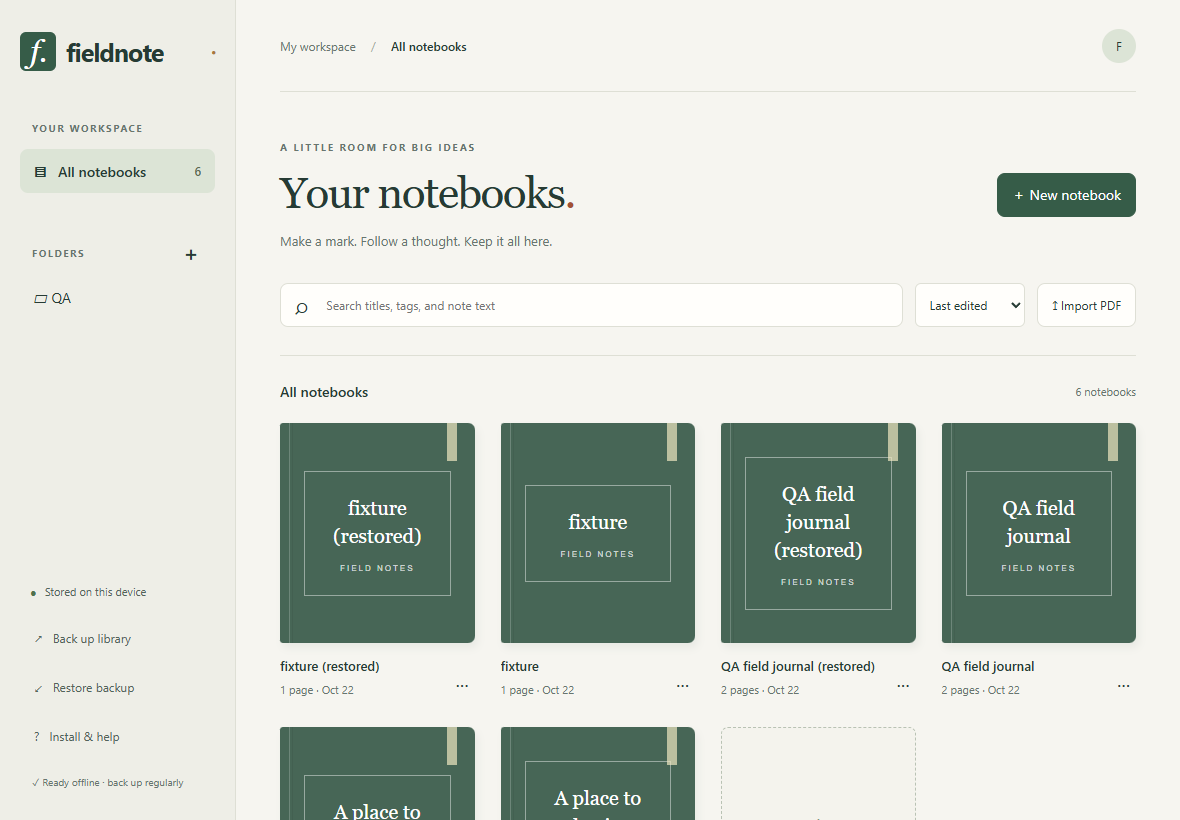
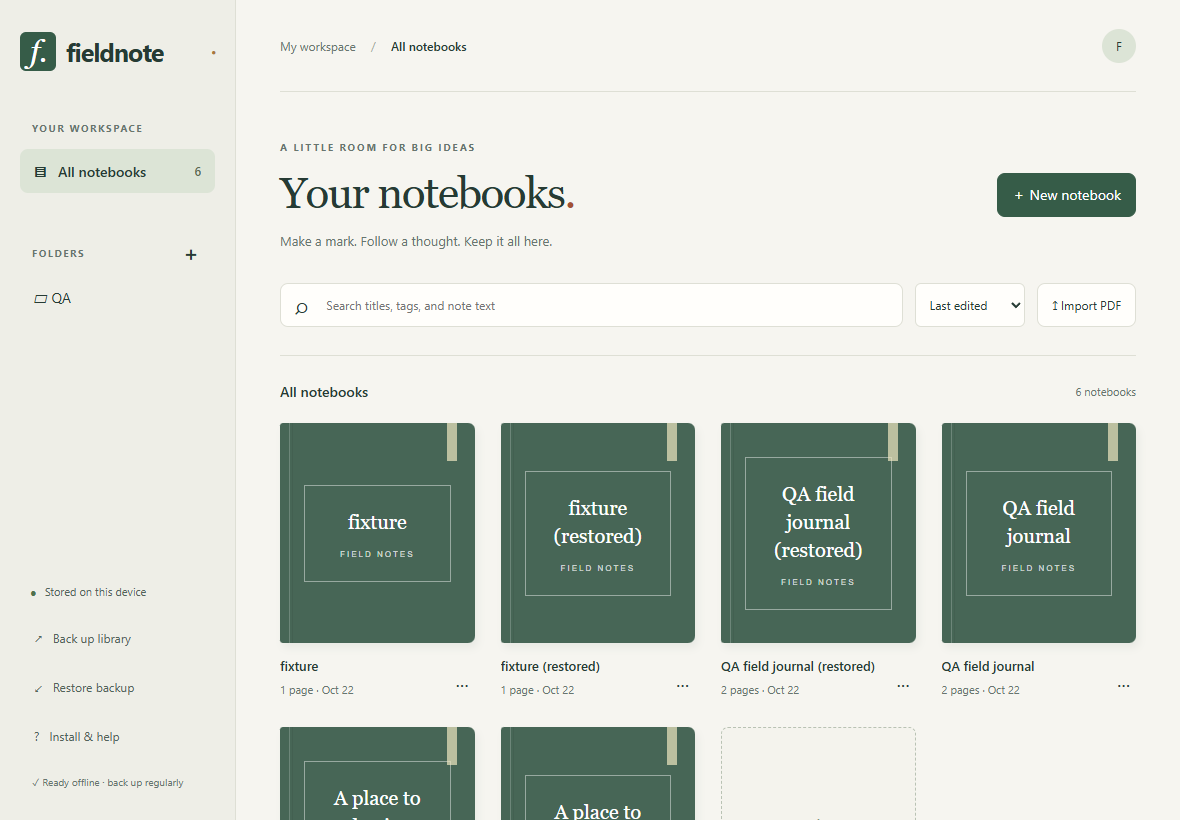
Update Site source

diff --git a/dist/sw.js b/dist/sw.js
@@ -1,4 +1,4 @@
-const CACHE='fieldnote-ee88b003bccffe45';
+const CACHE='fieldnote-1d32e03623c2ffa5';
 const ASSETS=["./THIRD-PARTY-NOTICES.txt","./app.mjs","./icon-192.png","./icon-512.png","./icon.svg","./index.html","./manifest.webmanifest","./model.mjs","./render.mjs","./storage.mjs","./style.css","./vendor/cmaps/78-EUC-H.bcmap","./vendor/cmaps/78-EUC-V.bcmap","./vendor/cmaps/78-H.bcmap","./vendor/cmaps/78-RKSJ-H.bcmap","./vendor/cmaps/78-RKSJ-V.bcmap","./vendor/cmaps/78-V.bcmap","./vendor/cmaps/78ms-RKSJ-H.bcmap","./vendor/cmaps/78ms-RKSJ-V.bcmap","./vendor/cmaps/83pv-RKSJ-H.bcmap","./vendor/cmaps/90ms-RKSJ-H.bcmap","./vendor/cmaps/90ms-RKSJ-V.bcmap","./vendor/cmaps/90msp-RKSJ-H.bcmap","./vendor/cmaps/90msp-RKSJ-V.bcmap","./vendor/cmaps/90pv-RKSJ-H.bcmap","./vendor/cmaps/90pv-RKSJ-V.bcmap","./vendor/cmaps/Add-H.bcmap","./vendor/cmaps/Add-RKSJ-H.bcmap","./vendor/cmaps/Add-RKSJ-V.bcmap","./vendor/cmaps/Add-V.bcmap","./vendor/cmaps/Adobe-CNS1-0.bcmap","./vendor/cmaps/Adobe-CNS1-1.bcmap","./vendor/cmaps/Adobe-CNS1-2.bcmap","./vendor/cmaps/Adobe-CNS1-3.bcmap","./vendor/cmaps/Adobe-CNS1-4.bcmap","./vendor/cmaps/Adobe-CNS1-5.bcmap","./vendor/cmaps/Adobe-CNS1-6.bcmap","./vendor/cmaps/Adobe-CNS1-UCS2.bcmap","./vendor/cmaps/Adobe-GB1-0.bcmap","./vendor/cmaps/Adobe-GB1-1.bcmap","./vendor/cmaps/Adobe-GB1-2.bcmap","./vendor/cmaps/Adobe-GB1-3.bcmap","./vendor/cmaps/Adobe-GB1-4.bcmap","./vendor/cmaps/Adobe-GB1-5.bcmap","./vendor/cmaps/Adobe-GB1-UCS2.bcmap","./vendor/cmaps/Adobe-Japan1-0.bcmap","./vendor/cmaps/Adobe-Japan1-1.bcmap","./vendor/cmaps/Adobe-Japan1-2.bcmap","./vendor/cmaps/Adobe-Japan1-3.bcmap","./vendor/cmaps/Adobe-Japan1-4.bcmap","./vendor/cmaps/Adobe-Japan1-5.bcmap","./vendor/cmaps/Adobe-Japan1-6.bcmap","./vendor/cmaps/Adobe-Japan1-UCS2.bcmap","./vendor/cmaps/Adobe-Korea1-0.bcmap","./vendor/cmaps/Adobe-Korea1-1.bcmap","./vendor/cmaps/Adobe-Korea1-2.bcmap","./vendor/cmaps/Adobe-Korea1-UCS2.bcmap","./vendor/cmaps/B5-H.bcmap","./vendor/cmaps/B5-V.bcmap","./vendor/cmaps/B5pc-H.bcmap","./vendor/cmaps/B5pc-V.bcmap","./vendor/cmaps/CNS-EUC-H.bcmap","./vendor/cmaps/CNS-EUC-V.bcmap","./vendor/cmaps/CNS1-H.bcmap","./vendor/cmaps/CNS1-V.bcmap","./vendor/cmaps/CNS2-H.bcmap","./vendor/cmaps/CNS2-V.bcmap","./vendor/cmaps/ETHK-B5-H.bcmap","./vendor/cmaps/ETHK-B5-V.bcmap","./vendor/cmaps/ETen-B5-H.bcmap","./vendor/cmaps/ETen-B5-V.bcmap","./vendor/cmaps/ETenms-B5-H.bcmap","./vendor/cmaps/ETenms-B5-V.bcmap","./vendor/cmaps/EUC-H.bcmap","./vendor/cmaps/EUC-V.bcmap","./vendor/cmaps/Ext-H.bcmap","./vendor/cmaps/Ext-RKSJ-H.bcmap","./vendor/cmaps/Ext-RKSJ-V.bcmap","./vendor/cmaps/Ext-V.bcmap","./vendor/cmaps/GB-EUC-H.bcmap","./vendor/cmaps/GB-EUC-V.bcmap","./vendor/cmaps/GB-H.bcmap","./vendor/cmaps/GB-V.bcmap","./vendor/cmaps/GBK-EUC-H.bcmap","./vendor/cmaps/GBK-EUC-V.bcmap","./vendor/cmaps/GBK2K-H.bcmap","./vendor/cmaps/GBK2K-V.bcmap","./vendor/cmaps/GBKp-EUC-H.bcmap","./vendor/cmaps/GBKp-EUC-V.bcmap","./vendor/cmaps/GBT-EUC-H.bcmap","./vendor/cmaps/GBT-EUC-V.bcmap","./vendor/cmaps/GBT-H.bcmap","./vendor/cmaps/GBT-V.bcmap","./vendor/cmaps/GBTpc-EUC-H.bcmap","./vendor/cmaps/GBTpc-EUC-V.bcmap","./vendor/cmaps/GBpc-EUC-H.bcmap","./vendor/cmaps/GBpc-EUC-V.bcmap","./vendor/cmaps/H.bcmap","./vendor/cmaps/HKdla-B5-H.bcmap","./vendor/cmaps/HKdla-B5-V.bcmap","./vendor/cmaps/HKdlb-B5-H.bcmap","./vendor/cmaps/HKdlb-B5-V.bcmap","./vendor/cmaps/HKgccs-B5-H.bcmap","./vendor/cmaps/HKgccs-B5-V.bcmap","./vendor/cmaps/HKm314-B5-H.bcmap","./vendor/cmaps/HKm314-B5-V.bcmap","./vendor/cmaps/HKm471-B5-H.bcmap","./vendor/cmaps/HKm471-B5-V.bcmap","./vendor/cmaps/HKscs-B5-H.bcmap","./vendor/cmaps/HKscs-B5-V.bcmap","./vendor/cmaps/Hankaku.bcmap","./vendor/cmaps/Hiragana.bcmap","./vendor/cmaps/KSC-EUC-H.bcmap","./vendor/cmaps/KSC-EUC-V.bcmap","./vendor/cmaps/KSC-H.bcmap","./vendor/cmaps/KSC-Johab-H.bcmap","./vendor/cmaps/KSC-Johab-V.bcmap","./vendor/cmaps/KSC-V.bcmap","./vendor/cmaps/KSCms-UHC-H.bcmap","./vendor/cmaps/KSCms-UHC-HW-H.bcmap","./vendor/cmaps/KSCms-UHC-HW-V.bcmap","./vendor/cmaps/KSCms-UHC-V.bcmap","./vendor/cmaps/KSCpc-EUC-H.bcmap","./vendor/cmaps/KSCpc-EUC-V.bcmap","./vendor/cmaps/Katakana.bcmap","./vendor/cmaps/LICENSE","./vendor/cmaps/NWP-H.bcmap","./vendor/cmaps/NWP-V.bcmap","./vendor/cmaps/RKSJ-H.bcmap","./vendor/cmaps/RKSJ-V.bcmap","./vendor/cmaps/Roman.bcmap","./vendor/cmaps/UniCNS-UCS2-H.bcmap","./vendor/cmaps/UniCNS-UCS2-V.bcmap","./vendor/cmaps/UniCNS-UTF16-H.bcmap","./vendor/cmaps/UniCNS-UTF16-V.bcmap","./vendor/cmaps/UniCNS-UTF32-H.bcmap","./vendor/cmaps/UniCNS-UTF32-V.bcmap","./vendor/cmaps/UniCNS-UTF8-H.bcmap","./vendor/cmaps/UniCNS-UTF8-V.bcmap","./vendor/cmaps/UniGB-UCS2-H.bcmap","./vendor/cmaps/UniGB-UCS2-V.bcmap","./vendor/cmaps/UniGB-UTF16-H.bcmap","./vendor/cmaps/UniGB-UTF16-V.bcmap","./vendor/cmaps/UniGB-UTF32-H.bcmap","./vendor/cmaps/UniGB-UTF32-V.bcmap","./vendor/cmaps/UniGB-UTF8-H.bcmap","./vendor/cmaps/UniGB-UTF8-V.bcmap","./vendor/cmaps/UniJIS-UCS2-H.bcmap","./vendor/cmaps/UniJIS-UCS2-HW-H.bcmap","./vendor/cmaps/UniJIS-UCS2-HW-V.bcmap","./vendor/cmaps/UniJIS-UCS2-V.bcmap","./vendor/cmaps/UniJIS-UTF16-H.bcmap","./vendor/cmaps/UniJIS-UTF16-V.bcmap","./vendor/cmaps/UniJIS-UTF32-H.bcmap","./vendor/cmaps/UniJIS-UTF32-V.bcmap","./vendor/cmaps/UniJIS-UTF8-H.bcmap","./vendor/cmaps/UniJIS-UTF8-V.bcmap","./vendor/cmaps/UniJIS2004-UTF16-H.bcmap","./vendor/cmaps/UniJIS2004-UTF16-V.bcmap","./vendor/cmaps/UniJIS2004-UTF32-H.bcmap","./vendor/cmaps/UniJIS2004-UTF32-V.bcmap","./vendor/cmaps/UniJIS2004-UTF8-H.bcmap","./vendor/cmaps/UniJIS2004-UTF8-V.bcmap","./vendor/cmaps/UniJISPro-UCS2-HW-V.bcmap","./vendor/cmaps/UniJISPro-UCS2-V.bcmap","./vendor/cmaps/UniJISPro-UTF8-V.bcmap","./vendor/cmaps/UniJISX0213-UTF32-H.bcmap","./vendor/cmaps/UniJISX0213-UTF32-V.bcmap","./vendor/cmaps/UniJISX02132004-UTF32-H.bcmap","./vendor/cmaps/UniJISX02132004-UTF32-V.bcmap","./vendor/cmaps/UniKS-UCS2-H.bcmap","./vendor/cmaps/UniKS-UCS2-V.bcmap","./vendor/cmaps/UniKS-UTF16-H.bcmap","./vendor/cmaps/UniKS-UTF16-V.bcmap","./vendor/cmaps/UniKS-UTF32-H.bcmap","./vendor/cmaps/UniKS-UTF32-V.bcmap","./vendor/cmaps/UniKS-UTF8-H.bcmap","./vendor/cmaps/UniKS-UTF8-V.bcmap","./vendor/cmaps/V.bcmap","./vendor/cmaps/WP-Symbol.bcmap","./vendor/fflate.mjs","./vendor/ocr/lang/eng.traineddata.gz","./vendor/ocr/tesseract-core-lstm.wasm","./vendor/ocr/tesseract-core-lstm.wasm.js","./vendor/ocr/tesseract-core-simd-lstm.wasm","./vendor/ocr/tesseract-core-simd-lstm.wasm.js","./vendor/ocr/worker.min.js","./vendor/pdf-lib.min.js","./vendor/pdf.mjs","./vendor/pdf.worker.mjs","./vendor/standard_fonts/FoxitDingbats.pfb","./vendor/standard_fonts/FoxitFixed.pfb","./vendor/standard_fonts/FoxitFixedBold.pfb","./vendor/standard_fonts/FoxitFixedBoldItalic.pfb","./vendor/standard_fonts/FoxitFixedItalic.pfb","./vendor/standard_fonts/FoxitSerif.pfb","./vendor/standard_fonts/FoxitSerifBold.pfb","./vendor/standard_fonts/FoxitSerifBoldItalic.pfb","./vendor/standard_fonts/FoxitSerifItalic.pfb","./vendor/standard_fonts/FoxitSymbol.pfb","./vendor/standard_fonts/LICENSE_FOXIT","./vendor/standard_fonts/LICENSE_LIBERATION","./vendor/standard_fonts/LiberationSans-Bold.ttf","./vendor/standard_fonts/LiberationSans-BoldItalic.ttf","./vendor/standard_fonts/LiberationSans-Italic.ttf","./vendor/standard_fonts/LiberationSans-Regular.ttf","./vendor/tesseract.min.js"];
 const URLs=ASSETS.map(p=>new URL(p,self.registration.scope).href);
 const known=new Set(URLs);
@@ -11,7 +11,8 @@ self.addEventListener('install',event=>event.waitUntil((async()=>{
     if(['js','mjs'].includes(ext)&&!/javascript/.test(type))throw new Error('Invalid offline script.');
     if(ext!=='html'&&/text\/html/.test(type))throw new Error('Offline asset returned a sign-in page.');
     if(ext==='html'&&!(await response.clone().text()).includes('id="paper"'))throw new Error('Not the app shell.');
-    await cache.put(url,response);
+    // Navigation cannot reuse a cached redirected response; preserve its validated body instead.
+    await cache.put(url,response.redirected?new Response(response.body,{status:response.status,statusText:response.statusText,headers:response.headers}):response);
   }));
 })()));
 self.addEventListener('activate',event=>event.waitUntil((async()=>{

diff --git a/src/sw.js b/src/sw.js
@@ -11,7 +11,8 @@ self.addEventListener('install',event=>event.waitUntil((async()=>{
     if(['js','mjs'].includes(ext)&&!/javascript/.test(type))throw new Error('Invalid offline script.');
     if(ext!=='html'&&/text\/html/.test(type))throw new Error('Offline asset returned a sign-in page.');
     if(ext==='html'&&!(await response.clone().text()).includes('id="paper"'))throw new Error('Not the app shell.');
-    await cache.put(url,response);
+    // Navigation cannot reuse a cached redirected response; preserve its validated body instead.
+    await cache.put(url,response.redirected?new Response(response.body,{status:response.status,statusText:response.statusText,headers:response.headers}):response);
   }));
 })()));
 self.addEventListener('activate',event=>event.waitUntil((async()=>{
